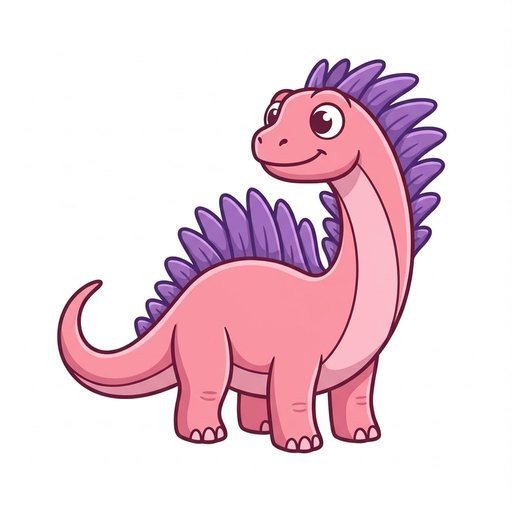
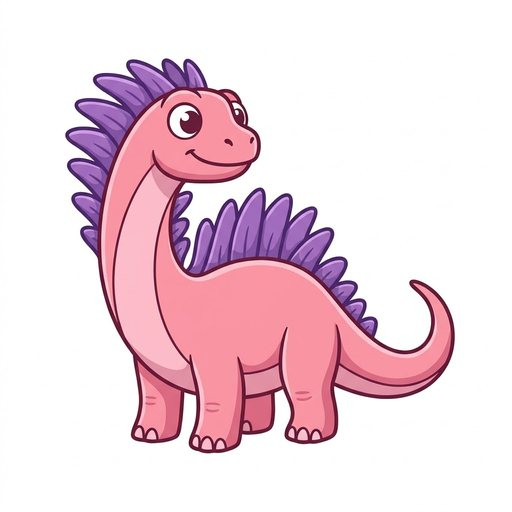
Restore original Amargasaurus picture (it already looked right); bump art version

diff --git a/game/index.html b/game/index.html
@@ -408,7 +408,7 @@ async function putImg(id,blob){if(IMG[id])URL.revokeObjectURL(IMG[id]); IMG[id]=
 async function getBlob(id){return await idb("readonly",st=>st.get(id));}
 async function delImg(id){if(IMG[id])URL.revokeObjectURL(IMG[id]); delete IMG[id]; JPG.delete(id); await idb("readwrite",st=>st.delete(id));}
 // Built-in art is cut out of its white background (tools/cutout.py makes dinos/<id>.webp)
-const ART_V="2"; // bump when a picture changes but keeps its file name, so devices don't show a cached old copy
+const ART_V="3"; // bump when a picture changes but keeps its file name, so devices don't show a cached old copy
 const src=id=>IMG[id]||(BUILTIN.has(id)?"dinos/"+id+".webp?v="+ART_V:null);
 const hasArt=id=>!!src(id);
 // Attack pose shown during a lunge (built-in art only; uploaded pictures keep their one pose)

diff --git a/CLAUDE.md b/CLAUDE.md
@@ -6,7 +6,7 @@ Learning game for my son: Pokémon-Go-style dinosaur catching. Maths battles wea
 - game/index.html: the whole game (one HTML file, no build step). Open it in a browser to run it.
 - game/dinos/NN_name.jpg: game art (512px). Ids match the SPECIES list in index.html.
 - game/dinos/NN_name_attack.webp: attack pose for each dino (swapped in during the battle lunge). Full-size originals are assets/dinos/NN_name_attack.jpeg.
-- All game art must face RIGHT (his dino is drawn as-is on the left; the wild dino is flipped). Mirrored because the Gemini art faced left: 16_amargasaurus (normal + attack), 08_pachycephalosaurus (normal only). Mirror again if you regenerate them from assets/, and check the facing of every new dino.
+- All game art must face RIGHT (his dino is drawn as-is on the left; the wild dino is flipped). Mirrored because the Gemini art faced left: 08_pachycephalosaurus (normal only) and 16_amargasaurus (attack only). Judge facing by where the head and eyes point, not the body: the normal Amargasaurus has its neck on the left but looks right, so it is NOT mirrored. Mirror again if you regenerate them from assets/, and check the facing of every new dino.
 - game/dinos/NN_name.webp: the same art cut out of its white background. This is what the game loads. Make it with `python3 tools/cutout.py` (needs Pillow + numpy).
 - assets/dinos/NN_name.jpeg: full-size originals from Gemini. assets/style-reference/style-sheet.jpeg: the style all dinos copy.
 - assets/dino_prompts.md: the 40 dinos with types and image prompts. Dinos 01–19 have art; 20–40 still to generate.
